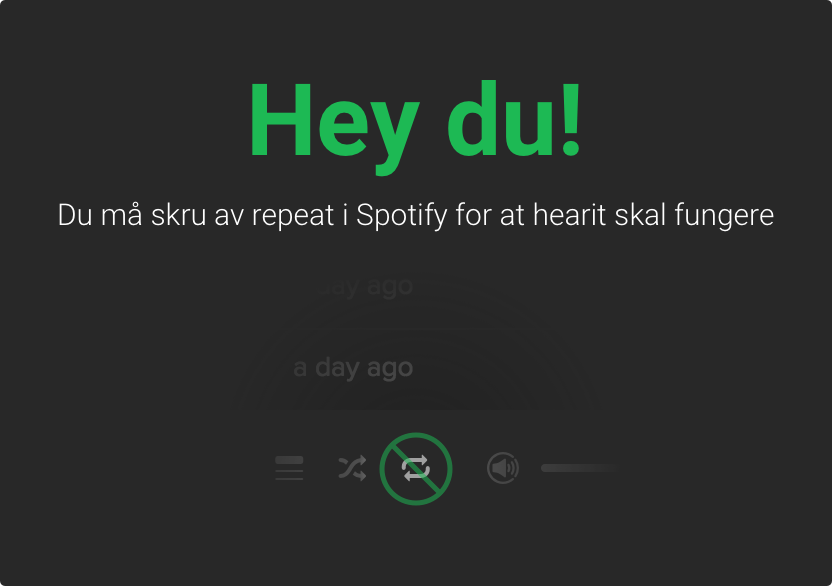
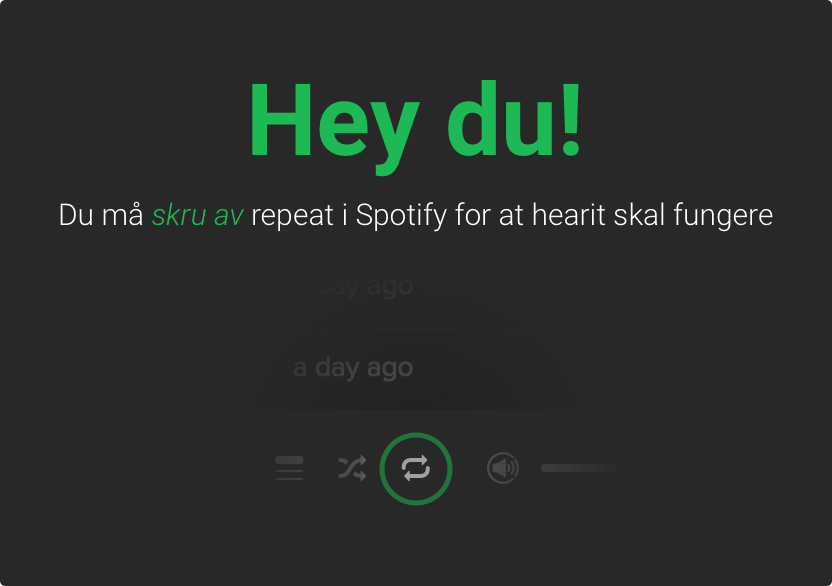
"Disable repeat" warning niceness

Changed region(s): [[0.0625, 0.3379, 0.9375, 0.3993], [0.5, 0.7986, 0.5312, 0.8294], [0.4688, 0.7679, 0.5, 0.7986]]

diff --git a/src/app/components/playerView.js b/src/app/components/playerView.js
@@ -29,6 +29,16 @@ const EmptyTrack = {
 	}
 };
 
+function DisableRepeatWarning(props) {
+	return <div
+		className="repeat-warning"
+		style={{
+			opacity: props.show ? 1 : 0,
+			pointerEvents: props.show ? "auto" : "none"
+		}}>
+	</div>
+}
+
 export default class PlayerView extends React.Component {
 	constructor(props) {
 		super(props);
@@ -95,17 +105,11 @@ export default class PlayerView extends React.Component {
 			margin: "0px auto"
 		};
 		
-		console.dir(this.state.playerStatus);
-		
 		let isOnRepeat = this.state.playerStatus && this.state.playerStatus.repeat;
 
 		return (
 			<div>
-				<div className="repeat-warning"
-					style={{
-						opacity: isOnRepeat ? 1 : 0
-					}}>
-				</div>
+				<DisableRepeatWarning show={isOnRepeat} />
 				<div className="player-container">
 					<div className="player" >
 						<img src={track.images.large} className="player-image" />
